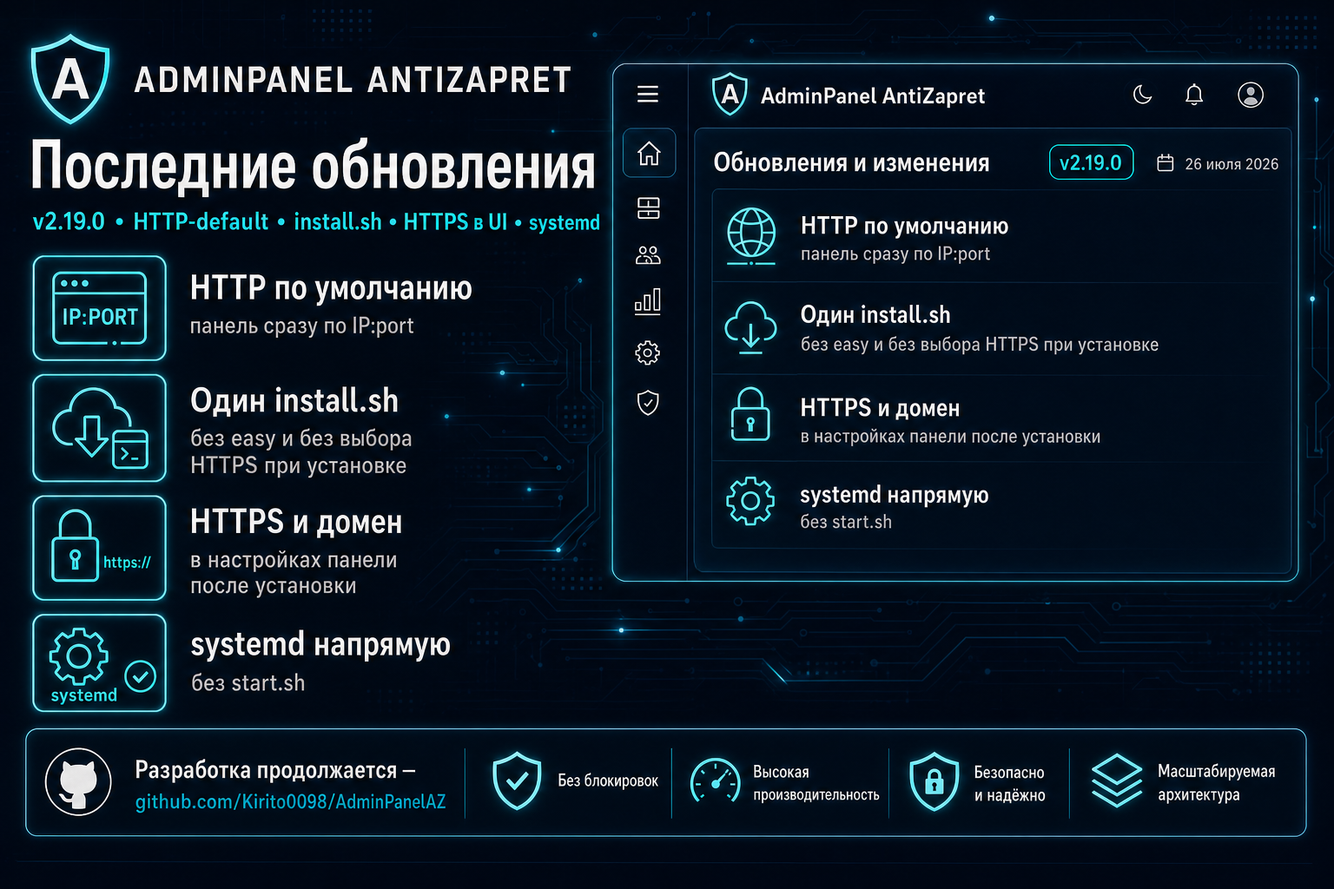
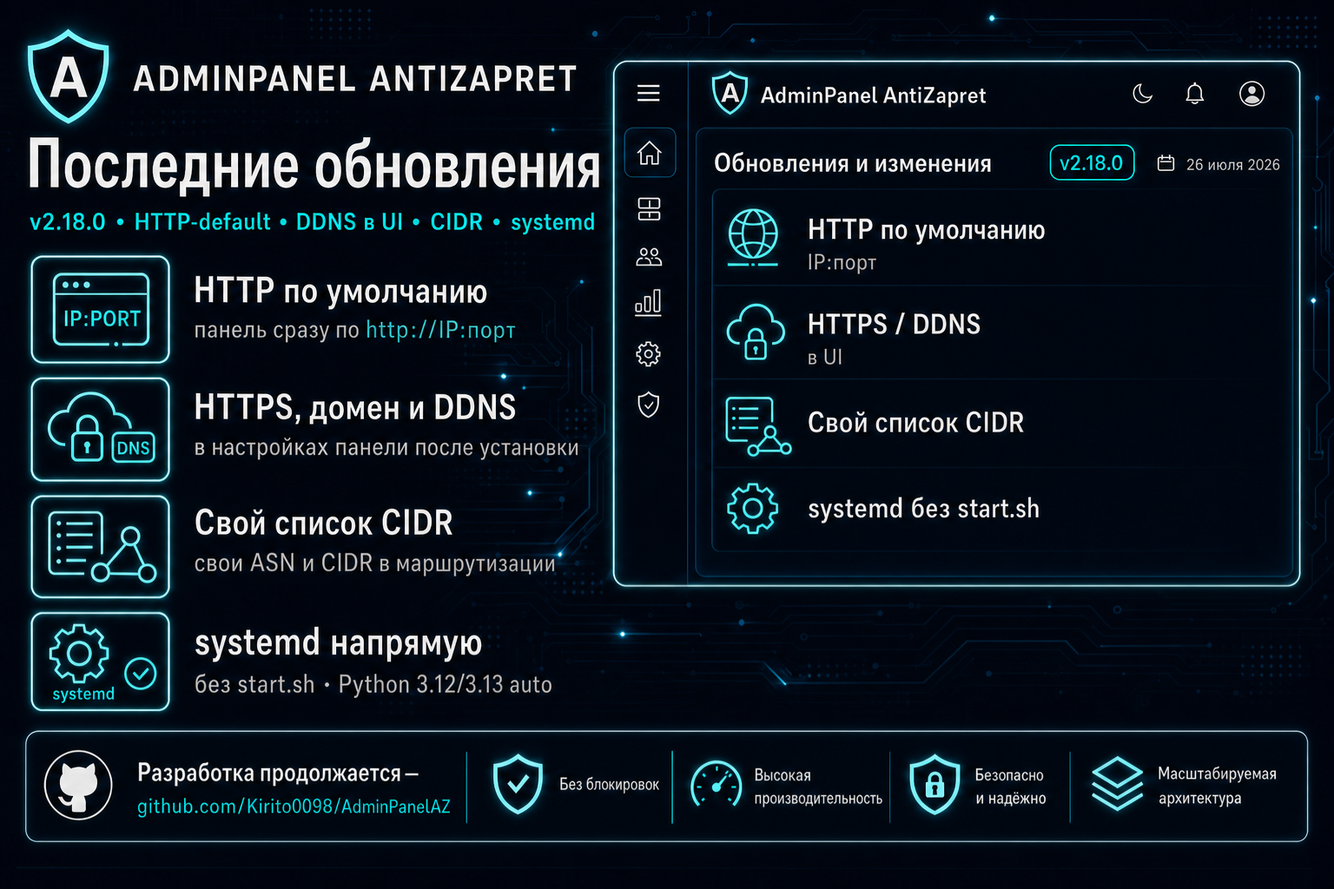
release: ship 2.18.0 with custom CIDR list and updated promo.
Fold Unreleased and former 2.19.0 notes into 2.18.0, sync version badges, and add custom-ips.txt wizard.

diff --git a/frontend/src/components/routing/CustomProviderWizardDialog.tsx b/frontend/src/components/routing/CustomProviderWizardDialog.tsx
@@ -1,8 +1,13 @@
-import { useMemo, useState } from 'react'
+import { useEffect, useMemo, useState } from 'react'
 import ConfirmDialog from '@/components/shared/ConfirmDialog'
 import { Label } from '@/components/ui/label'
 import { Textarea } from '@/components/ui/textarea'
+import { cn } from '@/lib/utils'
 import type { CidrProviderInfo } from '@/types'
+
+export const CUSTOM_PROVIDER_FILENAME = 'custom-ips.txt'
+
+type WizardMode = 'custom' | 'existing'
 
 interface CustomProviderWizardDialogProps {
   open: boolean
@@ -32,9 +37,30 @@ export default function CustomProviderWizardDialog({
   loading,
   onSubmit,
 }: CustomProviderWizardDialogProps) {
-  const [providerKey, setProviderKey] = useState(defaultProviderKey ?? providers[0]?.filename ?? '')
+  const existingProviders = useMemo(
+    () => providers.filter((p) => p.filename !== CUSTOM_PROVIDER_FILENAME),
+    [providers],
+  )
+  const [mode, setMode] = useState<WizardMode>('custom')
+  const [providerKey, setProviderKey] = useState(
+    defaultProviderKey && defaultProviderKey !== CUSTOM_PROVIDER_FILENAME
+      ? defaultProviderKey
+      : existingProviders[0]?.filename ?? '',
+  )
   const [cidrsText, setCidrsText] = useState('')
   const [asnsText, setAsnsText] = useState('')
+
+  useEffect(() => {
+    if (!open) return
+    setMode('custom')
+    setCidrsText('')
+    setAsnsText('')
+    const fallback =
+      defaultProviderKey && defaultProviderKey !== CUSTOM_PROVIDER_FILENAME
+        ? defaultProviderKey
+        : existingProviders[0]?.filename ?? ''
+    setProviderKey(fallback)
+  }, [open, defaultProviderKey, existingProviders])
 
   const cidrCount = useMemo(
     () => cidrsText.split('\n').filter((l) => l.trim() && !l.trim().startsWith('#')).length,
@@ -42,17 +68,20 @@ export default function CustomProviderWizardDialog({
   )
   const asnCount = useMemo(() => parseAsnLines(asnsText).length, [asnsText])
 
+  const resolvedKey = mode === 'custom' ? CUSTOM_PROVIDER_FILENAME : providerKey
+
   return (
     <ConfirmDialog
       open={open}
       onOpenChange={onOpenChange}
-      title="Добавить свои ASN/CIDR"
-      description="Записи будут добавлены в SQLite CIDR БД для выбранного провайдера. После этого выполните сборку (этап 2) и deploy."
+      title="Свои ASN/CIDR"
+      description="Записи попадут в SQLite CIDR БД. Затем выполните сборку (этап 2) и deploy — и включите провайдера на вкладке «Провайдеры»."
       confirmLabel="Добавить в БД"
       loading={loading}
       onConfirm={async () => {
+        if (!resolvedKey) return
         await onSubmit({
-          providerKey,
+          providerKey: resolvedKey,
           cidrs_text: cidrsText,
           asns_text: asnsText,
         })
@@ -62,21 +91,62 @@ export default function CustomProviderWizardDialog({
     >
       <div className="space-y-4 py-2">
         <div className="space-y-2">
-          <Label htmlFor="custom-provider-key">Провайдер</Label>
-          <select
-            id="custom-provider-key"
-            className="flex h-9 w-full rounded-md border bg-background px-3 text-sm"
-            value={providerKey}
-            onChange={(e) => setProviderKey(e.target.value)}
-            disabled={loading}
-          >
-            {providers.map((p) => (
-              <option key={p.filename} value={p.filename}>
-                {p.name} ({p.filename})
-              </option>
-            ))}
-          </select>
+          <Label>Куда добавить</Label>
+          <div className="grid gap-2 sm:grid-cols-2">
+            <button
+              type="button"
+              disabled={loading}
+              onClick={() => setMode('custom')}
+              className={cn(
+                'rounded-lg border px-3 py-2.5 text-left transition-colors',
+                mode === 'custom'
+                  ? 'border-primary bg-primary/10 ring-1 ring-primary'
+                  : 'hover:bg-muted/40',
+              )}
+            >
+              <div className="text-sm font-medium">Свой список</div>
+              <div className="mt-0.5 text-xs text-muted-foreground">
+                Отдельный провайдер «Свой список» ({CUSTOM_PROVIDER_FILENAME})
+              </div>
+            </button>
+            <button
+              type="button"
+              disabled={loading || existingProviders.length === 0}
+              onClick={() => setMode('existing')}
+              className={cn(
+                'rounded-lg border px-3 py-2.5 text-left transition-colors',
+                mode === 'existing'
+                  ? 'border-primary bg-primary/10 ring-1 ring-primary'
+                  : 'hover:bg-muted/40',
+                existingProviders.length === 0 && 'opacity-50',
+              )}
+            >
+              <div className="text-sm font-medium">Дописать к провайдеру</div>
+              <div className="mt-0.5 text-xs text-muted-foreground">
+                Добавить CIDR/ASN в Akamai, Cloudflare и т.д.
+              </div>
+            </button>
+          </div>
         </div>
+
+        {mode === 'existing' && (
+          <div className="space-y-2">
+            <Label htmlFor="custom-provider-key">Провайдер</Label>
+            <select
+              id="custom-provider-key"
+              className="flex h-9 w-full rounded-md border bg-background px-3 text-sm"
+              value={providerKey}
+              onChange={(e) => setProviderKey(e.target.value)}
+              disabled={loading}
+            >
+              {existingProviders.map((p) => (
+                <option key={p.filename} value={p.filename}>
+                  {p.name} ({p.filename})
+                </option>
+              ))}
+            </select>
+          </div>
+        )}
 
         <div className="space-y-2">
           <Label htmlFor="custom-cidrs">CIDR (по одному на строку)</Label>

diff --git a/frontend/src/components/routing/utils.ts b/frontend/src/components/routing/utils.ts
@@ -118,6 +118,7 @@ export function providerCategoryLabel(category: string): string {
     cdn: 'CDN',
     cloud: 'Облако',
     hosting: 'Хостинг',
+    custom: 'Свой',
   }
   return map[category] ?? category
 }

diff --git a/backend/app/services/cidr/constants.py b/backend/app/services/cidr/constants.py
@@ -73,6 +73,12 @@ IP_FILES: dict[str, dict[str, str | list[str]]] = {
         "category": "hosting",
         "tags": ["hosting"],
     },
+    "custom-ips.txt": {
+        "name": "Свой список",
+        "description": "Ручные ASN/CIDR, добавленные через панель (Свои ASN/CIDR).",
+        "category": "custom",
+        "tags": ["custom", "manual"],
+    },
 }
 
 ROUTE_CONFIG_FILES = {

diff --git a/CHANGELOG.md b/CHANGELOG.md
@@ -18,8 +18,7 @@
 ## Быстрая навигация
 
 - [Unreleased](#unreleased)
-- [2.19.0](#2190---2026-07-26) — 2026-07-26
-- [2.18.0](#2180---2026-07-21) — 2026-07-21
+- [2.18.0](#2180---2026-07-26) — 2026-07-26
 - [2.17.0](#2170---2026-07-15) — 2026-07-15
 - [2.16.0](#2160---2026-07-13) — 2026-07-13
 - [2.15.0](#2150---2026-07-12) — 2026-07-12
@@ -46,58 +45,17 @@
 
 ### ✨ Added
 
-- **DDNS в UI** — DuckDNS / No-IP в **Настройки → Адрес сайта и HTTPS** (блок «Динамический DNS»): сохранение `/etc/adminpanelaz/ddns.env`, обновление IP, systemd timer каждые 5 мин (`ddns_settings.py`, API `/settings/vpn-network/ddns`).
-
 ### 🔄 Changed
-
-- **Мастер установки** — вопрос порта: «Порт панели (доступ по IP:порт)» вместо «Порт backend (панель)», чтобы было ясно, что это порт открытия панели.
-- **Документация** — DDNS настраивается в панели, не в мастере установки; CLI `ddns-update.sh` — fallback.
-- **UI «Адрес сайта и HTTPS»** — убраны дублирующие шапка-метрики и сетка «Параметры сервера»; статус только в блоке «Текущий доступ».
-- **CIDR-провайдеры** — сетка в 3 колонки; вкл/выкл через switch; счётчики БД/Контр./Узел снова в читаемой таблице; включённые с зелёным фоном.
 
 ### 🗑 Removed
 
-- **Мастер установки — шаг DDNS** — интерактивный вопрос провайдера убран (остаётся env-override `WIZ_DDNS_*` для CI/автоустановки).
-
 ### 🐛 Fixed
-
-- **Вложенный скролл на страницах** — убран кап высоты у мастера доступа, changelog обновлений и списка CIDR-провайдеров; колесо крутит страницу, а не внутренний блок.
-
-### 🧪 Tests
-
-- **`test_ddns_settings.py`** — parse/write `ddns.env`, маскирование секретов.
 
 ---
 
-## [2.19.0] - 2026-07-26
+## [2.18.0] - 2026-07-26
 
-> **Кратко:** установщик упрощён — HTTP по умолчанию (`http://IP:порт`), один `install.sh` без easy и без выбора HTTPS; домен/TLS только в UI; systemd без watchdog-`start.sh` (compat-shim + refresh unit’ов при update); модуль Telegram доступен сразу. Плюс Python 3.12/3.13 auto и обновление backend-зависимостей.
-
-### 🔄 Changed
-
-- **Установщик — HTTP по умолчанию** — интерактивный `install.sh` всегда ставит `http_direct` (`BACKEND_HOST=0.0.0.0`, без nginx/certbot). HTTPS и домен — только в UI: **Настройки → Адрес сайта и HTTPS**. Убраны вопросы: способ публикации, внешний IP/домен, внутренние IP узлов, APP_ENV, systemd/daemon/workers, mTLS/ротация, профиль ресурсов, опциональные функции (Telegram/бэкап/CIDR), firewall.
-- **Дефолты install** — `APP_ENV=production`, systemd, `UVICORN_WORKERS=1`, профиль **full**, `ALLOW_INTERNAL_NODES=false`, `FEATURE_TELEGRAM_ENABLED=true`, авто-бэкап **вкл.** каждые **7** дней (без вопроса), mTLS/ротация выкл. Telegram token — только в UI.
-- **Systemd** — unit’ы запускают uvicorn / node agent напрямую (`scripts/systemd-exec-panel.sh`, `systemd-exec-node.sh`); перезапуск — `systemctl restart adminpanelaz` (+ node). UI/CLI update и startup переписывают установленные unit’ы из репо (`scripts/refresh-systemd-units.sh`), чтобы старый `ExecStart=…/start.sh` не ломал панель после pull.
-- **Документация** — быстрый старт только через `install.sh`; порты/firewall под HTTP-default; StatusOpenVPN только через UI; инструкции по workers+Redis, LAN-нодам, mTLS, профилю, Telegram UI.
-- **Python 3.13 при установке** — предпочтение Debian 13 (`python3.13`); на Ubuntu 24.04 **автоматически 3.12**. Повторный `source` не «запинивает» только 3.13; существующий venv сохраняется (`scripts/python-runtime.sh`). CI — Python 3.13.
-- **Backend-зависимости** — pins: FastAPI 0.140, uvicorn 0.51, SQLAlchemy 2.0.51, pydantic-settings 2.14, cryptography 49, redis 8, webauthn 3, geoip2 5, psutil 7 и др.; `passlib` → `bcrypt` 5.0.
-
-### 🐛 Fixed
-
-- **UI «Обновить» → systemd** — после git pull unit’ы переписываются из репо (`refresh-systemd-units.sh`) до `systemctl restart`; при старте мигрируются legacy `ExecStart=…/start.sh`. Иначе панель со старым unit’ом не поднялась бы после удаления полного watchdog-`start.sh`.
-
-### 🗑 Removed
-
-- **Простой установщик** — удалены `install-easy.sh` и `scripts/install-easy-wizard.sh`; флаг `--easy` убран.
-- **`start.sh` / `start_node_agent.sh` (полный watchdog)** — bash-watchdog удалён; запуск через systemd-exec. Оставлены тонкие **compat-shim** с теми же именами (exec → `systemd-exec-*.sh`), чтобы UI «Обновить» на серверах со старым unit’ом не ронял сервис до миграции unit.
-
----
-
-## [2.18.0] - 2026-07-21
-
-> **Кратко:** preflight портов и понятный вывод при сбое install; DuckDNS — только token; предупреждение о конфликте OPENVPN_BACKUP_TCP с HTTPS на 443; публикация без nginx — stop/disable вместо редиректа 443→порт; IPv4-only; whitelist порта на uvicorn HTTPS; фиксы удаления узла и QR AZ.
->
-> *(HTTPS / подпуть / StatusOpenVPN в install и easy-мастер в 2.19.0 убраны — настройка только в UI; ниже не дублируем.)*
+> **Кратко:** установщик упрощён — HTTP по умолчанию (`http://IP:порт`), один `install.sh` без easy и без выбора HTTPS; домен/TLS и DDNS в UI; systemd без watchdog-`start.sh`; свой список CIDR; упрощены экраны сети/провайдеров; preflight портов; Python 3.12/3.13 auto и обновление backend-зависимостей. Плюс фиксы QR AZ, whitelist HTTPS, удаления узла.
 
 ### ✨ Added
 
@@ -115,17 +73,37 @@
 - **API** — `PUT /routing/antizapret-settings` возвращает `warnings: [...]` (`antizapret_settings.py`, `routing.py`).
 - **Docs** — [docs/antizapret-config.md](docs/antizapret-config.md) у «Резервные порты».
 
+#### Сеть / публикация / маршрутизация
+
+- **DDNS в UI** — DuckDNS / No-IP в **Настройки → Адрес сайта и HTTPS** (блок «Динамический DNS»): сохранение `/etc/adminpanelaz/ddns.env`, обновление IP сейчас, systemd timer каждые 5 мин (`ddns_settings.py`, API `GET/PUT /settings/vpn-network/ddns`, `…/update`, `…/timer`).
+- **Свой список CIDR** — провайдер `custom-ips.txt` («Свой список») в каталоге `IP_FILES`; мастер **Свои ASN/CIDR** по умолчанию наполняет его, опционально — дописать CIDR/ASN к существующему провайдеру (`CustomProviderWizardDialog.tsx`, [docs/routing-cidr.md](docs/routing-cidr.md)).
+
 ### 🔄 Changed
+
+#### Установщик и runtime
+
+- **Установщик — HTTP по умолчанию** — интерактивный `install.sh` всегда ставит `http_direct` (`BACKEND_HOST=0.0.0.0`, без nginx/certbot). HTTPS и домен — только в UI: **Настройки → Адрес сайта и HTTPS**. Убраны вопросы: способ публикации, внешний IP/домен, внутренние IP узлов, APP_ENV, systemd/daemon/workers, mTLS/ротация, профиль ресурсов, опциональные функции (Telegram/бэкап/CIDR), firewall; DDNS в интерактиве не спрашивается (env-override `WIZ_DDNS_*` сохранён).
+- **Дефолты install** — `APP_ENV=production`, systemd, `UVICORN_WORKERS=1`, профиль **full**, `ALLOW_INTERNAL_NODES=false`, `FEATURE_TELEGRAM_ENABLED=true`, авто-бэкап **вкл.** каждые **7** дней (без вопроса), mTLS/ротация выкл. Telegram token — только в UI.
+- **Мастер установки** — вопрос порта: «Порт панели (доступ по IP:порт)» вместо «Порт backend (панель)».
+- **Systemd** — unit’ы запускают uvicorn / node agent напрямую (`scripts/systemd-exec-panel.sh`, `systemd-exec-node.sh`); перезапуск — `systemctl restart adminpanelaz` (+ node). UI/CLI update и startup переписывают установленные unit’ы из репо (`scripts/refresh-systemd-units.sh`), чтобы старый `ExecStart=…/start.sh` не ломал панель после pull.
+- **Python 3.13 при установке** — предпочтение Debian 13 (`python3.13`); на Ubuntu 24.04 **автоматически 3.12**. Повторный `source` не «запинивает» только 3.13; существующий venv сохраняется (`scripts/python-runtime.sh`). CI — Python 3.13.
+- **Backend-зависимости** — pins: FastAPI 0.140, uvicorn 0.51, SQLAlchemy 2.0.51, pydantic-settings 2.14, cryptography 49, redis 8, webauthn 3, geoip2 5, psutil 7 и др.; `passlib` → `bcrypt` 5.0.
 
 #### VPN / Сеть — публикация
 
 - **Переход на uvicorn / HTTP** — вместо редиректа 443→порт nginx **stop/disable**, если нет чужих сайтов; иначе снимается только vhost панели (`nginx_disable_for_direct_publish`).
 - **URL доступа** — для uvicorn всегда с портом панели (`https://domain:5050/`) (`panel_publish_info.py`, `publishWizardUi.ts`).
 - **IPv4-only** — без `listen [::]:…`; `TRUSTED_PROXY_IPS` / `FORWARDED_ALLOW_IPS` по умолчанию `127.0.0.1`.
+- **UI «Адрес сайта и HTTPS»** — убраны дублирующие шапка-метрики и сетка «Параметры сервера»; статус только в блоке «Текущий доступ».
+- **CIDR-провайдеры** — сетка до 3 колонок; вкл/выкл через switch; счётчики БД / Контр. / Узел в таблице; включённые с зелёным фоном, выключенные приглушены.
 
 #### Безопасность
 
 - **Whitelist порта** — тогл доступен и при `direct_https`, не только `direct_http` (`SecurityTab.tsx`).
+
+#### Документация
+
+- **Документация** — быстрый старт только через `install.sh`; порты/firewall под HTTP-default; StatusOpenVPN только через UI; DDNS/HTTPS в панели; инструкции по workers+Redis, LAN-нодам, mTLS, профилю, Telegram UI; README / `set-i-publikaciya` / help `ddns-update.sh`.
 
 #### Прочее
 
@@ -135,7 +113,9 @@
 
 ### 🐛 Fixed
 
-- **DuckDNS в мастере** — после token больше нет ложного «Подтвердите пароль»; No-IP — пароль с подтверждением (`wiz_prompt_secret`).
+- **UI «Обновить» → systemd** — после git pull unit’ы переписываются из репо (`refresh-systemd-units.sh`) до `systemctl restart`; при старте мигрируются legacy `ExecStart=…/start.sh`. Иначе панель со старым unit’ом не поднялась бы после удаления полного watchdog-`start.sh`.
+- **Вложенный скролл на страницах** — снят кап высоты у мастера доступа, changelog обновлений и списка CIDR-провайдеров; колесо крутит страницу (`PublishAccessWizard`, `UpdatesTab`, `ProvidersTab`).
+- **DuckDNS в мастере** — после token больше нет ложного «Подтвердите пароль»; No-IP — пароль с подтверждением (`wiz_prompt_secret`). *(Позже шаг DDNS убран из мастера — см. Removed / DDNS в UI.)*
 - **После отключения nginx процесс оставался на 443** — теперь nginx реально останавливается.
 - **Тогл блокировки порта на uvicorn HTTPS** — учитывается `direct_https`.
 - **`DELETE /api/nodes/{id}` → 500** — чистка `connection_count_samples`; неожиданный FK → **409** (`node_manager.py`).
@@ -143,11 +123,15 @@
 
 ### 🗑 Removed
 
+- **Простой установщик** — удалены `install-easy.sh` и `scripts/install-easy-wizard.sh`; флаг `--easy` убран.
+- **`start.sh` / `start_node_agent.sh` (полный watchdog)** — bash-watchdog удалён; запуск через systemd-exec. Оставлены тонкие **compat-shim** с теми же именами (exec → `systemd-exec-*.sh`), чтобы UI «Обновить» на серверах со старым unit’ом не ронял сервис до миграции unit.
+- **Мастер установки — шаг DDNS** — интерактивный выбор DuckDNS/No-IP убран; настройка в UI или через `WIZ_DDNS_*` при автоустановке.
 - **Редирект 443 → uvicorn** — шаблон и хелперы redirect-vhost удалены.
 
 ### 🧪 Tests
 
 - **`test_qr_generator.py`**, **`test_panel_publish_info.py`**, **`publishWizardUi.test.ts`** — download-link QR, whitelist modes, preview uvicorn с портом.
+- **`test_ddns_settings.py`** — parse/write `ddns.env`, маскирование секретов.
 
 ---
 
@@ -2076,8 +2060,7 @@ Major release: roadmap этапы 1–8 (и большая часть 9) — pro
 
 </details>
 
-[Unreleased]: https://github.com/Kirito0098/AdminPanelAZ/compare/v2.19.0...HEAD
-[2.19.0]: https://github.com/Kirito0098/AdminPanelAZ/compare/v2.18.0...v2.19.0
+[Unreleased]: https://github.com/Kirito0098/AdminPanelAZ/compare/v2.18.0...HEAD
 [2.18.0]: https://github.com/Kirito0098/AdminPanelAZ/compare/v2.17.0...v2.18.0
 [2.17.0]: https://github.com/Kirito0098/AdminPanelAZ/compare/v2.16.0...v2.17.0
 [2.16.0]: https://github.com/Kirito0098/AdminPanelAZ/compare/v2.15.0...v2.16.0

diff --git a/README.md b/README.md
@@ -3,7 +3,7 @@
 Веб-панель для администрирования VPN-сервера [AntiZapret](https://github.com/GubernievS/AntiZapret-VPN)
 
 [![GitHub](https://img.shields.io/badge/GitHub-Kirito0098%2FAdminPanelAZ-181717?style=for-the-badge&logo=github)](https://github.com/Kirito0098/AdminPanelAZ)
-[![Version](https://img.shields.io/badge/Панель-2.19.0-blue?style=for-the-badge)](CHANGELOG.md)
+[![Version](https://img.shields.io/badge/Панель-2.18.0-blue?style=for-the-badge)](CHANGELOG.md)
 [![Node agent](https://img.shields.io/badge/Node_agent-1.5.0-555?style=for-the-badge)](CHANGELOG.md)
 [![FastAPI](https://img.shields.io/badge/Backend-FastAPI-009688?style=for-the-badge&logo=fastapi&logoColor=white)](backend/)
 [![React](https://img.shields.io/badge/Frontend-React-61DAFB?style=for-the-badge&logo=react&logoColor=black)](frontend/)
@@ -318,7 +318,7 @@ sudo ./scripts/nginx-repair.sh      # восстановить nginx (напри
   <img src="docs/assets/telegram-promo/05-whats-new.png" alt="Последние обновления AdminPanel AntiZapret" width="900">
 </p>
 
-**Текущая версия: панель 2.19.0 · node agent 1.5.0** (2026-07-26)
+**Текущая версия: панель 2.18.0 · node agent 1.5.0** (2026-07-26)
 
 Последний релиз — **HTTP по умолчанию** (`http://IP:порт` сразу после install), **один `install.sh`** без easy и без выбора HTTPS, домен/TLS в **Настройки → Адрес сайта и HTTPS**, **systemd → `scripts/systemd-exec-*.sh`** (тонкие compat-shim `start.sh` только для старых unit’ов), Python **3.12 (Ubuntu) / 3.13 (Debian)** автоматически.
 

diff --git a/docs/plans/simplify-installer-http-default/07-release-docs-changelog-promo.md b/docs/plans/simplify-installer-http-default/07-release-docs-changelog-promo.md
@@ -7,7 +7,7 @@
 
 ## Общий контекст
 
-> Финальный релизный этап плана. Текущая панель в репо — смотри badge/CHANGELOG (сейчас **2.18.0**); новая версия — следующий semver (скорее **2.19.0**, если нет breaking API).
+> Финальный релизный этап плана. Релиз вырезан как **2.18.0** (см. badge/CHANGELOG).
 >
 > Обязательно:
 > 1. Обновить **все** пользовательские инструкции и README.
@@ -39,7 +39,7 @@
 
 2) CHANGELOG.md
 - Перенеси накопленное из [Unreleased] в новую секцию ## [X.Y.Z] - YYYY-MM-DD
-  (X.Y.Z = следующий minor после последней релизой, обычно 2.19.0; дата = день релиза).
+  (X.Y.Z = версия релиза; для этого плана — **2.18.0**; дата = день релиза).
 - Заполни кратко (blockquote) + Changed/Removed/Added по факту упрощения install.
 - Обнови навигацию сверху и compare-ссылки внизу ([Unreleased] → compare vX.Y.Z...HEAD).
 - Очисти Unreleased до пустых заголовков секций (или оставь только то, что не вошло в релиз).
@@ -94,7 +94,7 @@
 
 ```bash
 # Подставь X.Y.Z фактически выданной версии:
-VER=2.19.0   # пример
+VER=2.18.0   # пример
 rg -n "Панель-${VER}|панель ${VER}|\"version\": \"${VER}\"" README.md frontend/package.json
 rg -n "^## \[${VER}\]" CHANGELOG.md
 test -f docs/assets/telegram-promo/05-whats-new.png

diff --git a/docs/plans/simplify-installer-http-default/README.md b/docs/plans/simplify-installer-http-default/README.md
@@ -1,6 +1,6 @@
 # План: упрощение установщика — HTTP по умолчанию, без простого мастера
 
-**Статус:** реализовано (релиз **2.19.0**, 2026-07-26)  
+**Статус:** реализовано (релиз **2.18.0**, 2026-07-26)  
 **Аудитория:** разработчики / агенты Cursor  
 **Связано:** [docs/nastrojki/set-i-publikaciya.md](../../nastrojki/set-i-publikaciya.md), мастер UI «Настройки → Адрес сайта и HTTPS»
 
@@ -490,7 +490,7 @@ scripts/seed-wizard-db.py             # меньше использования 
 После зелёного smoke:
 
 1. Пройти **все** пользовательские инструкции и README под новый install.
-2. Вырезать версию в `CHANGELOG.md` (обычно следующий minor, напр. **2.19.0**).
+2. Вырезать версию в `CHANGELOG.md` (для этого плана — **2.18.0**).
 3. Синхронизировать версию: README badge, «Текущая версия», `frontend/package.json`.
 4. Обновить promo: [`docs/assets/telegram-promo/05-whats-new.png`](../../assets/telegram-promo/05-whats-new.png) — версия + 3–4 пункта релиза (HTTP-default, один install.sh, HTTPS в UI, Python 3.12/3.13).
 5. Статус этого плана → «реализовано».

diff --git a/docs/routing-cidr.md b/docs/routing-cidr.md
@@ -74,7 +74,7 @@
 | **Обновить из интернета** | Скачивает свежие списки адресов | Раз в неделю или когда провайдер обновил данные |
 | **Сгенерировать из БД** | Собирает файлы из локальной базы | После этапа 1 |
 | **Deploy** | Отправляет файлы на VPN-сервер | После этапа 2 |
-| **Свои ASN/CIDR** | Добавить свой список адресов | Для нестандартных провайдеров |
+| **Свои ASN/CIDR** | Наполнить **Свой список** (`custom-ips.txt`) или дописать CIDR/ASN к известному провайдеру | Свои адреса / нестандартные сети; затем сборка (этап 2) и deploy |
 | **Очистить БД** | Удаляет все данные из базы | Только при проблемах — осторожно |
 | **Откат из runtime_backups** | Восстанавливает предыдущую версию списков | Если новая сборка сломала маршрутизацию |
 

diff --git a/docs/README.md b/docs/README.md
@@ -85,7 +85,7 @@ GitHub для этого не нужен.
 | NOC Ops (инциденты, SSE, rate, история, действия, фильтры, health, freshness, source badge, HA) | [plans/noc-ops/](plans/noc-ops/) |
 | Видимость VPN-профилей для пользователей (default + per-user, спека и промпты) | [plans/vpn-profile-visibility/](plans/vpn-profile-visibility/) |
 | Консолидация роли Пользователь / удаление viewer (ACL, can_create) | [plans/user-role-consolidation/](plans/user-role-consolidation/) |
-| Упрощение установщика: HTTP по умолчанию, удаление easy | [plans/simplify-installer-http-default/](plans/simplify-installer-http-default/) — **реализовано в 2.19.0** |
+| Упрощение установщика: HTTP по умолчанию, удаление easy | [plans/simplify-installer-http-default/](plans/simplify-installer-http-default/) — **реализовано в 2.18.0** |
 
 ---
 
